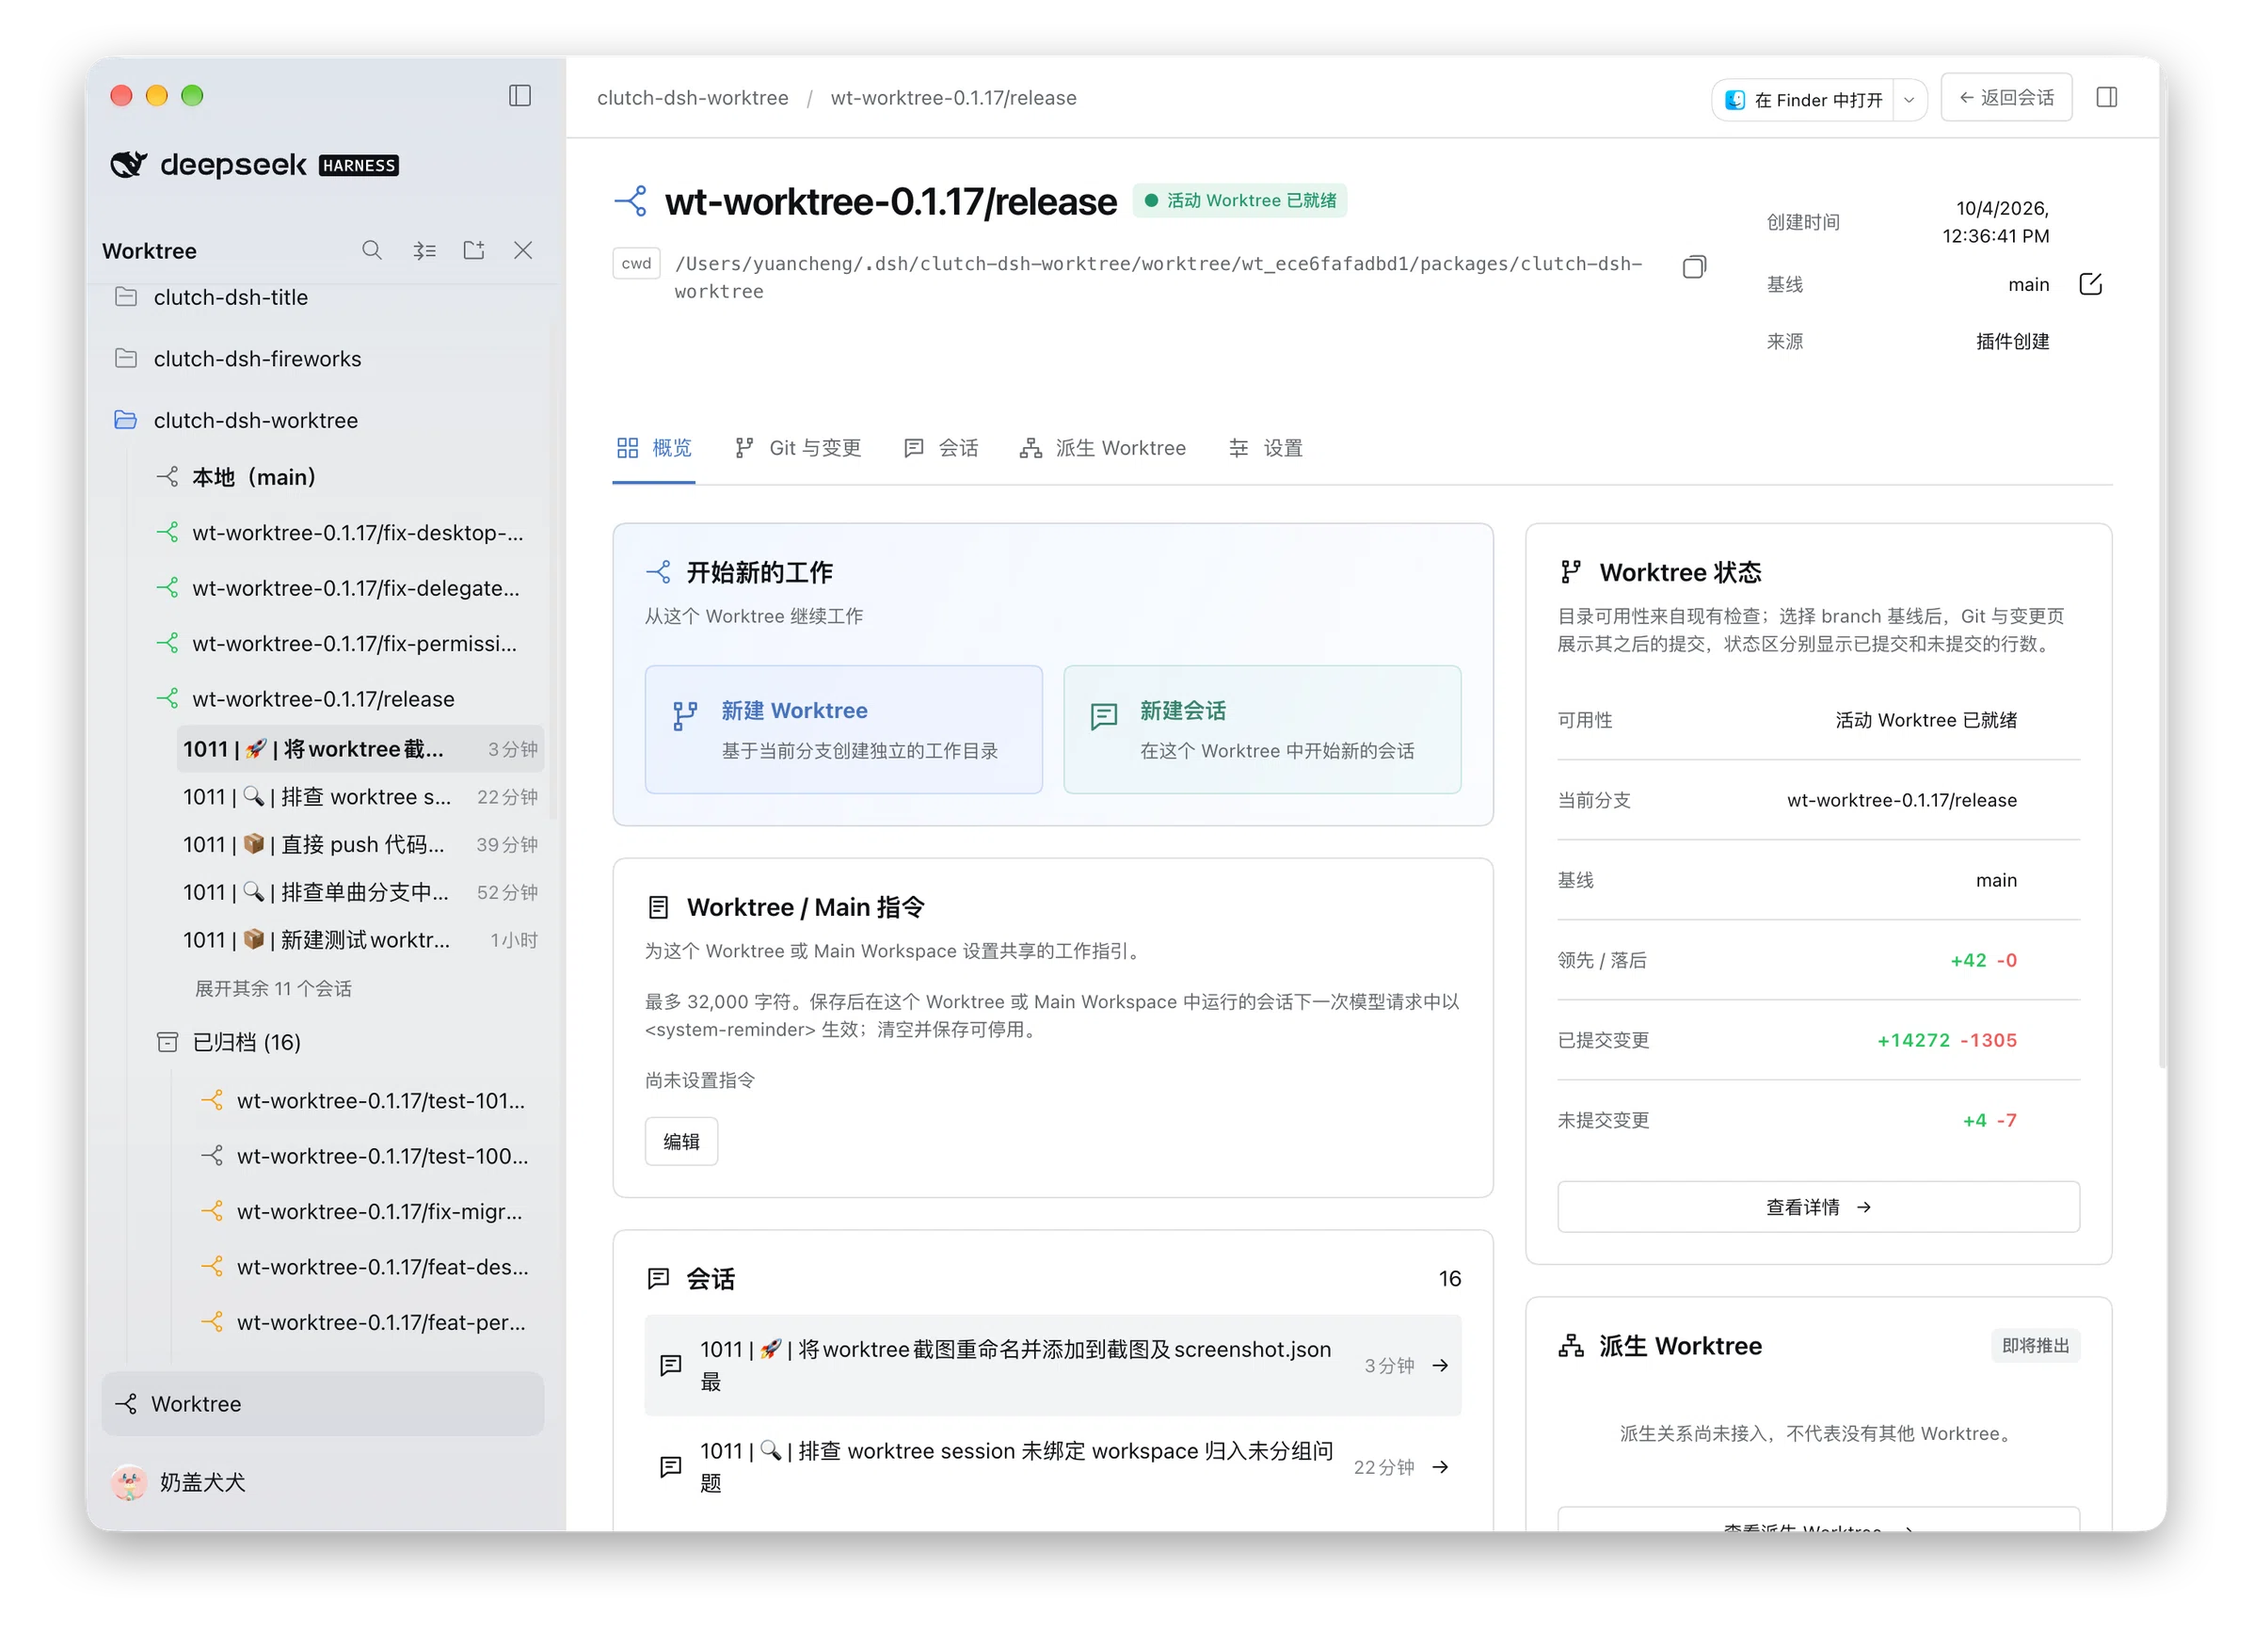
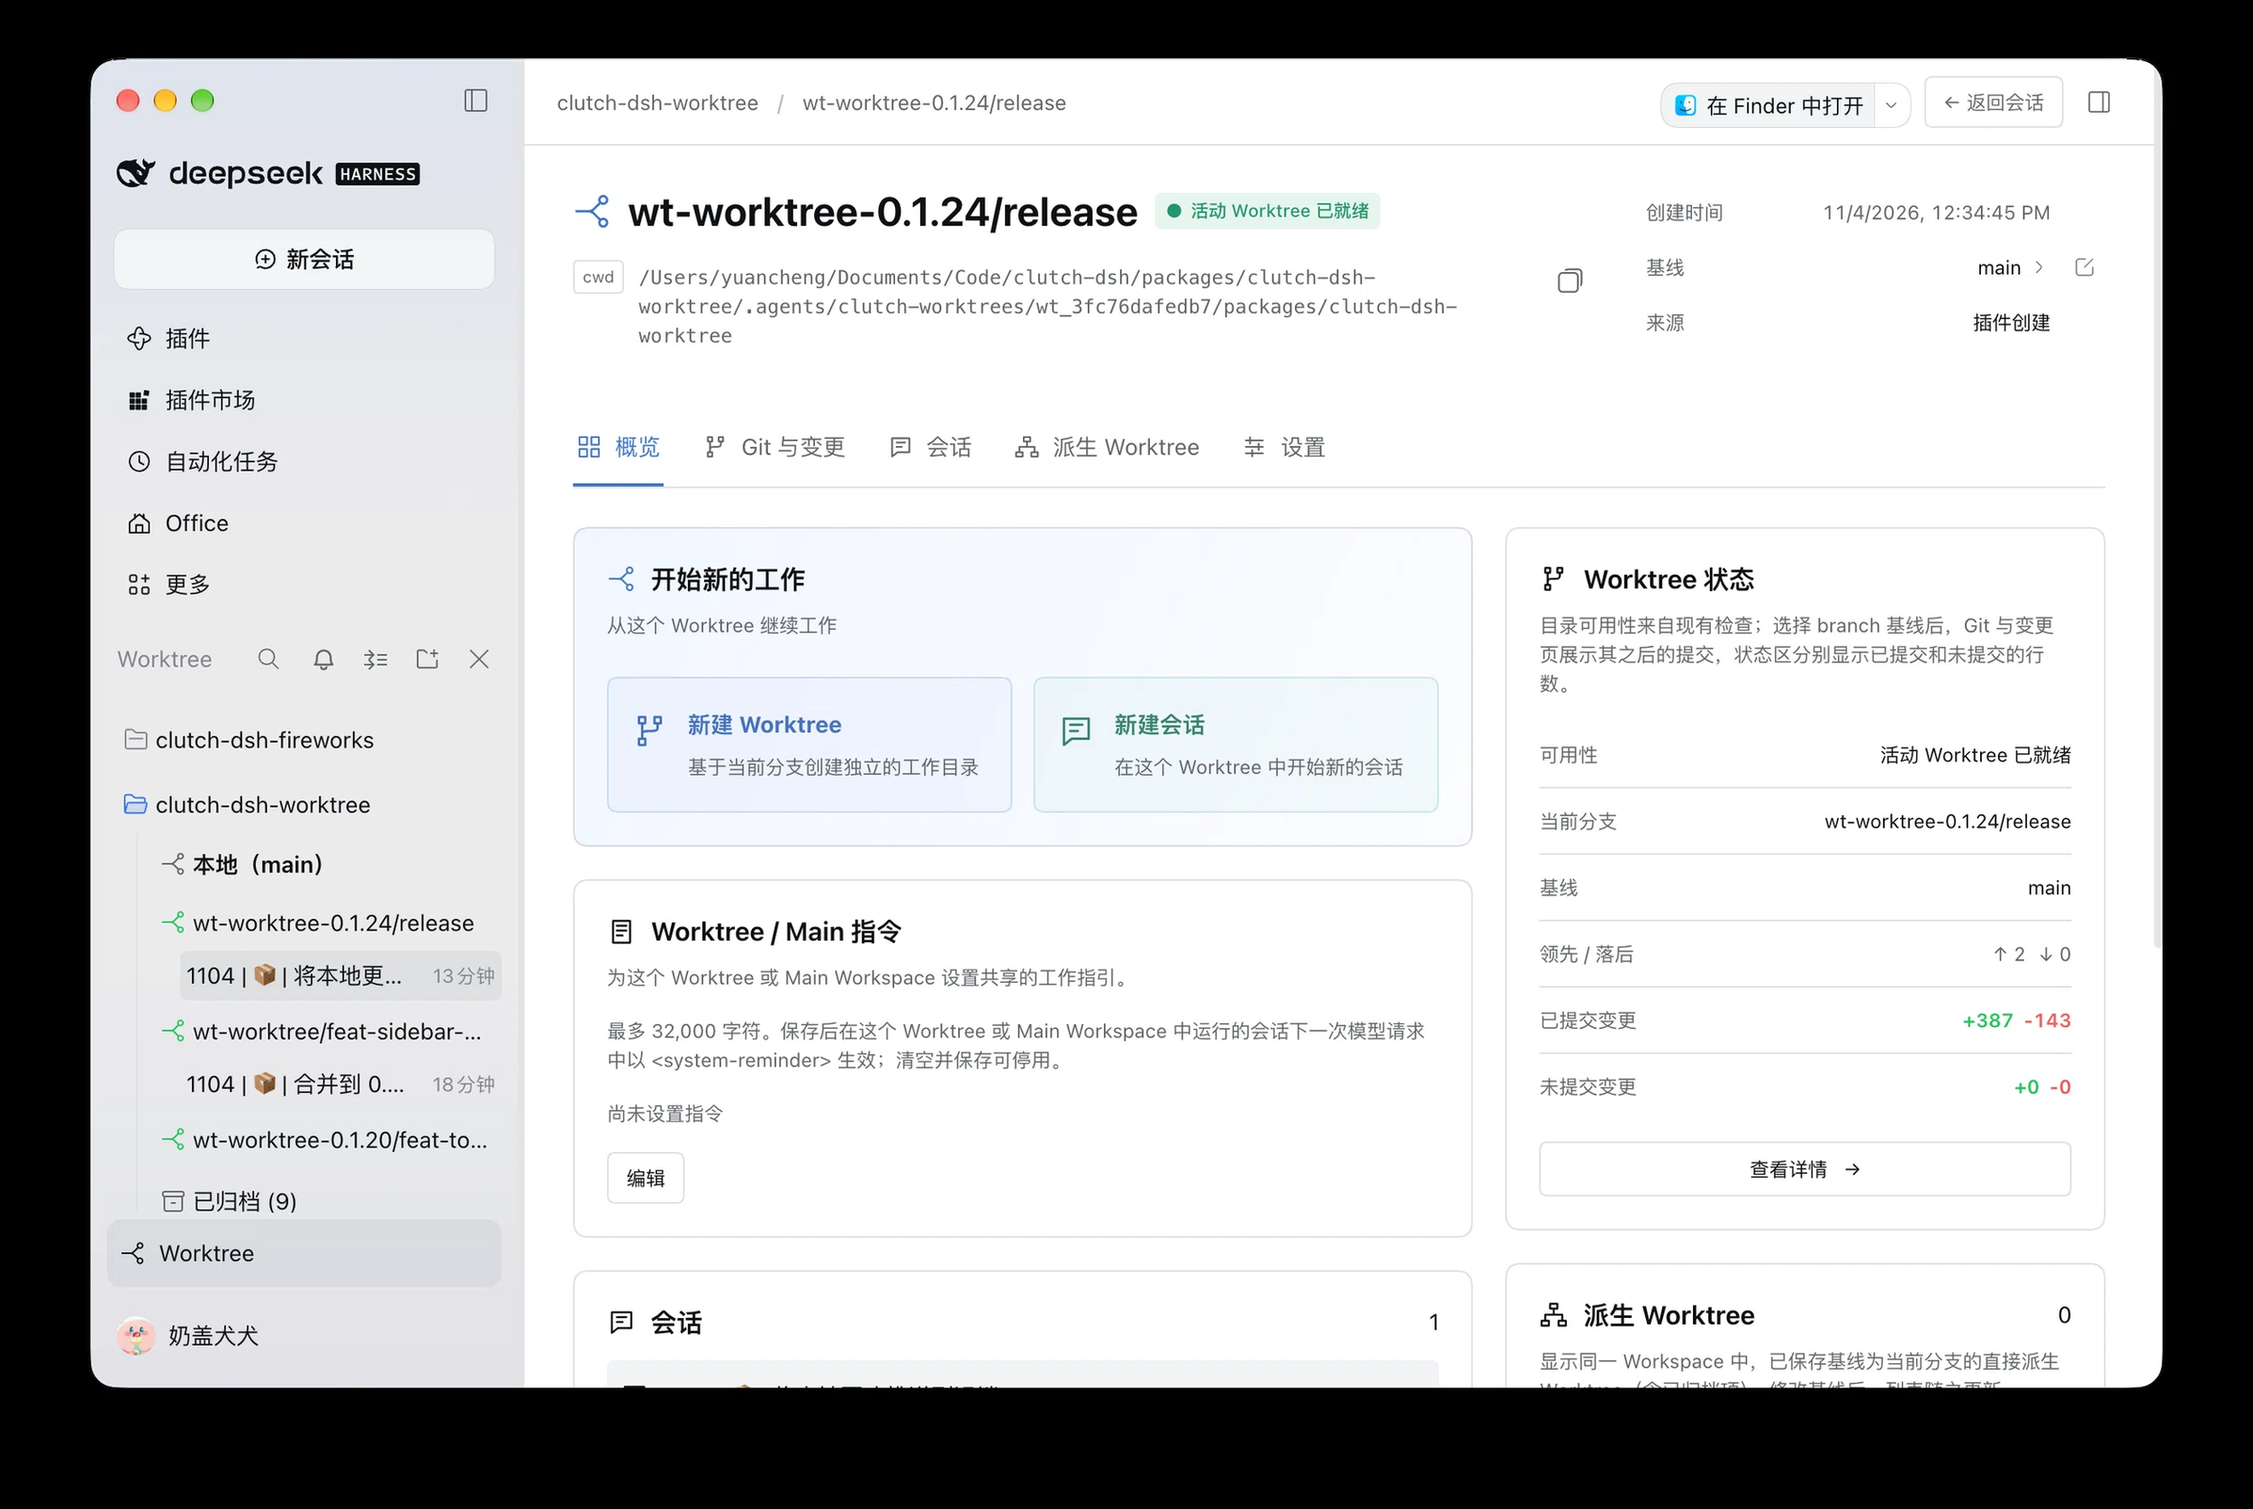
docs(worktree): refresh UI screenshots

diff --git a/packages/clutch-dsh-worktree/README.zh.md b/packages/clutch-dsh-worktree/README.zh.md
@@ -78,9 +78,10 @@ dsh plugin --profile web add "github:Cerbur/clutch-dsh#path:/packages/clutch-dsh
 
 | 功能                    | 预览                                                                                                                                 | 作用                                                                                                                                                                                                                                                                                                                     |
 | ----------------------- | ------------------------------------------------------------------------------------------------------------------------------------ | ------------------------------------------------------------------------------------------------------------------------------------------------------------------------------------------------------------------------------------------------------------------------------------------------------------------------ |
-| **Worktree 导航**       | <img src="assets/screenshots/screenshots-en.png" width="420" alt="包含 Workspace、Main、Worktree 和 Session 行的 DSH Worktree 导航"> | 现有底部入口仅将原生 Workspace 浏览区域切换为 Worktree 模式。新会话、插件菜单和当前对话保持原位。面板继承原生 Sidebar 材质和透明度偏好。Workspace 展开与新 Session 行使用原生节奏的淡入和位移动画。每个 Workspace 下可以浏览 Local/Main 和 Git Worktree，再打开对应行绑定的 Session。 |
+| **Worktree 导航**       | <img src="assets/screenshots/screenshots-zh.png" width="420" alt="包含 Workspace、Main、Worktree 和 Session 行的 DSH Worktree 导航"> | 现有底部入口仅将原生 Workspace 浏览区域切换为 Worktree 模式。新会话、插件菜单和当前对话保持原位。面板继承原生 Sidebar 材质和透明度偏好。Workspace 展开与新 Session 行使用原生节奏的淡入和位移动画。每个 Workspace 下可以浏览 Local/Main 和 Git Worktree，再打开对应行绑定的 Session。 |
 | **创建和导入 Worktree** | <img src="assets/screenshots/screenshots-import.png" width="420" alt="Worktree 创建与导入弹窗">                                      | 从本地或已获取的远端 branch 创建 Worktree，或原地登记已有的 branch-attached Worktree。导入不会移动、复制或编辑已有目录。                                                                                                                                                                                                               |
-| **Worktree Dashboard**  | <img src="assets/screenshots/screenshots-dashboard.png" width="420" alt="显示 Session 和 Worktree 操作的 Worktree Dashboard 预览">   | 预览版 Dashboard 显示 Worktree 身份、路径、Session、Worktree/Main 指令、已连接操作、由 Host 提供的在应用中打开入口，以及受管理 Worktree 或 Main 的只读 Git 与变更视图。派生 Worktree 显示直接基线匹配项、路径、可用状态并支持打开对应 Dashboard；同步基线支持选择 Rebase 或 Merge baseline，并创建 Agent 任务会话。                                                                                         |
+| **Worktree Dashboard**  | <img src="assets/screenshots/screenshots-dashboard.png" width="420" alt="显示操作、指令和状态的 Worktree Dashboard 概览">   | 预览版 Dashboard 显示 Worktree 身份、路径、Session、Worktree/Main 指令、已连接操作、由 Host 提供的在应用中打开入口，以及受管理 Worktree 或 Main 的只读 Git 与变更视图。派生 Worktree 显示直接基线匹配项、路径、可用状态并支持打开对应 Dashboard；同步基线支持选择 Rebase 或 Merge baseline，并创建 Agent 任务会话。                                                                                         |
+| **Git 与变更** | <img src="assets/screenshots/screenshots-git-reviewer.png" width="420" alt="显示提交、变更文件和差异的 Git 与变更视图"> | 在只读视图中查看基线对比、提交、变更文件和差异。 |
 | **同步基线** | <img src="assets/screenshots/screenshots-baseline-sync.png" width="420" alt="提供 Rebase 与 Merge baseline 选项的同步基线弹窗"> | 选择 Rebase 或 Merge baseline，在当前 Worktree 创建原生 Agent 任务会话。 |
 | **Agent steer 提示** | <img src="assets/screenshots/screenshots-agent-steer.jpg" width="420" alt="输入框上方的 Agent steer 接收记录，包含发送方与内容"> | 在接收方会话查看待处理与已接收的 steer 消息，接收不代表任务完成。 |
 | **Agent 工具设置（实验性）** | <img src="assets/screenshots/screenshots-worktree-tool.png" width="420" alt="Worktree 工具设置预览"> | 在通用设置中选择 `/cluworktree` 启用的能力，在 Local/Main 与各受管 Worktree 的 Dashboard 中独立配置自动注入。委派创建的 Session 默认仅获得结果回报。 |

diff --git a/packages/clutch-dsh-worktree/README.md b/packages/clutch-dsh-worktree/README.md
@@ -82,7 +82,8 @@ development details, see [docs/DEVELOPMENT.md](docs/DEVELOPMENT.md).
 | ------------------------------- | -------------------------------------------------------------------------------------------------------------------------------------------- | ------------------------------------------------------------------------------------------------------------------------------------------------------------------------------------------------------------------------------------------------------------------------------------------------------------------------------------------------------------------------------------------------------------------------------------------------------------------- |
 | **Worktree navigation**         | <img src="assets/screenshots/screenshots-en.png" width="420" alt="DSH Worktree navigation with Workspace, Main, Worktree, and Session rows"> | The existing footer entry switches only the native Workspace browsing region to Worktree mode. New Session, plugin menus, and the current conversation remain in place. The panel inherits the native Sidebar material and transparency preferences. Workspace expansion and new Session rows use native-style fades and movement. Browse each Workspace through Local/Main and Git Worktree rows, then open the Sessions bound to each row. |
 | **Create and import Worktrees** | <img src="assets/screenshots/screenshots-import.png" width="420" alt="Worktree create and import dialog">                                    | Create a Worktree from a local or fetched remote branch, or register an existing branch-attached Worktree in place. Import does not move, copy, or edit the existing directory.                                                                                                                                                                                                                                                                                                       |
-| **Worktree Dashboard**          | <img src="assets/screenshots/screenshots-dashboard.png" width="420" alt="Worktree Dashboard preview with Sessions and Worktree actions">     | The preview Dashboard shows Worktree identity, path, Sessions, Worktree/Main instructions, connected actions, the host-provided Open In action, and the read-only Git & Changes view for managed Worktrees or Main. Derived Worktrees lists direct saved-baseline matches with paths, availability, and Dashboard navigation. Sync with Base creates an Agent task Session using Rebase or Merge baseline.                                                                                                                                                                 |
+| **Worktree Dashboard**          | <img src="assets/screenshots/screenshots-dashboard.png" width="420" alt="Worktree Dashboard overview with actions, instructions, and status">     | The preview Dashboard shows Worktree identity, path, Sessions, Worktree/Main instructions, connected actions, the host-provided Open In action, and the read-only Git & Changes view for managed Worktrees or Main. Derived Worktrees lists direct saved-baseline matches with paths, availability, and Dashboard navigation. Sync with Base creates an Agent task Session using Rebase or Merge baseline.                                                                                                                                                                 |
+| **Git & Changes** | <img src="assets/screenshots/screenshots-git-reviewer.png" width="420" alt="Git and Changes view with commits, changed files, and diff"> | Review baseline comparisons, commits, changed files, and diffs in a read-only view. |
 | **Baseline synchronization** | <img src="assets/screenshots/screenshots-baseline-sync.png" width="420" alt="Sync with Base dialog with Rebase and Merge baseline choices"> | Choose Rebase or Merge baseline and create a native Agent task Session in the current Worktree. |
 | **Agent steer feedback** | <img src="assets/screenshots/screenshots-agent-steer.jpg" width="420" alt="Agent steer receipt above the input box, with sender and content"> | Inspect pending and received steer messages in the recipient Session without treating receipt as task completion. |
 | **Agent tool settings (Experimental)** | <img src="assets/screenshots/screenshots-worktree-tool.png" width="420" alt="Worktree tool settings preview">                               | Choose capabilities for `/cluworktree` in General, and independently configure automatic injection in Local/Main and managed Worktree Dashboards. Delegated Sessions receive result reporting only by default. |
